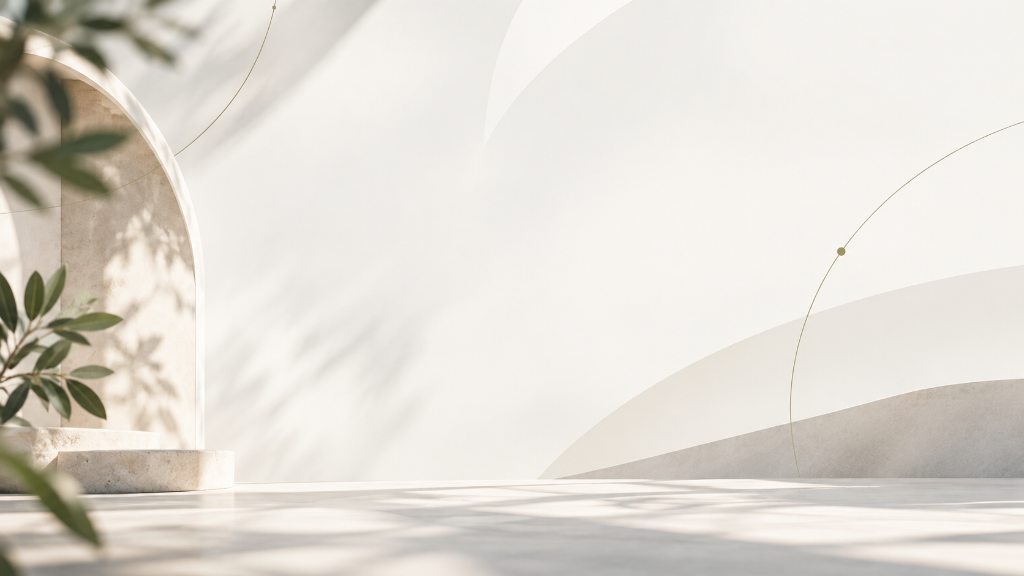
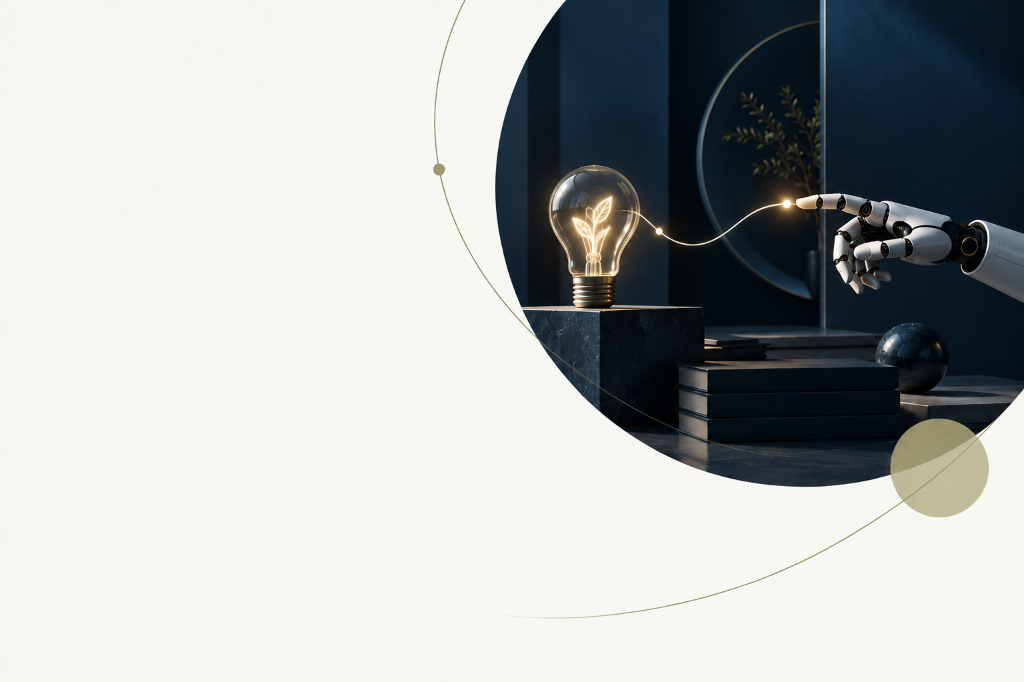
feat(solutions): update Section 2 Connected Capabilities background artwork with glowing lightbulb and robotics portal

diff --git a/components/sections/ConnectedCapabilitiesSection.tsx b/components/sections/ConnectedCapabilitiesSection.tsx
@@ -34,10 +34,10 @@ export const ConnectedCapabilitiesSection: React.FC = () => {
           fill
           priority
           sizes="100vw"
-          className="object-cover object-center opacity-60 sm:opacity-75"
+          className="object-cover object-right md:object-center select-none opacity-90"
         />
-        {/* Soft atmospheric gradient to ensure crisp, readable centered typography */}
-        <div className="absolute inset-0 bg-gradient-to-b from-[#F7F8FC]/85 via-[#F7F8FC]/60 to-[#F7F8FC]/90" />
+        {/* Soft atmospheric gradient to ensure crisp, readable centered typography on mobile/tablet */}
+        <div className="absolute inset-0 bg-gradient-to-r from-[#F7F8FC]/95 via-[#F7F8FC]/70 to-[#F7F8FC]/30 lg:from-[#F7F8FC]/85 lg:via-[#F7F8FC]/40 lg:to-transparent" />
       </div>
 
       <Container size="default" className="relative z-10 w-full max-w-[1280px]">
